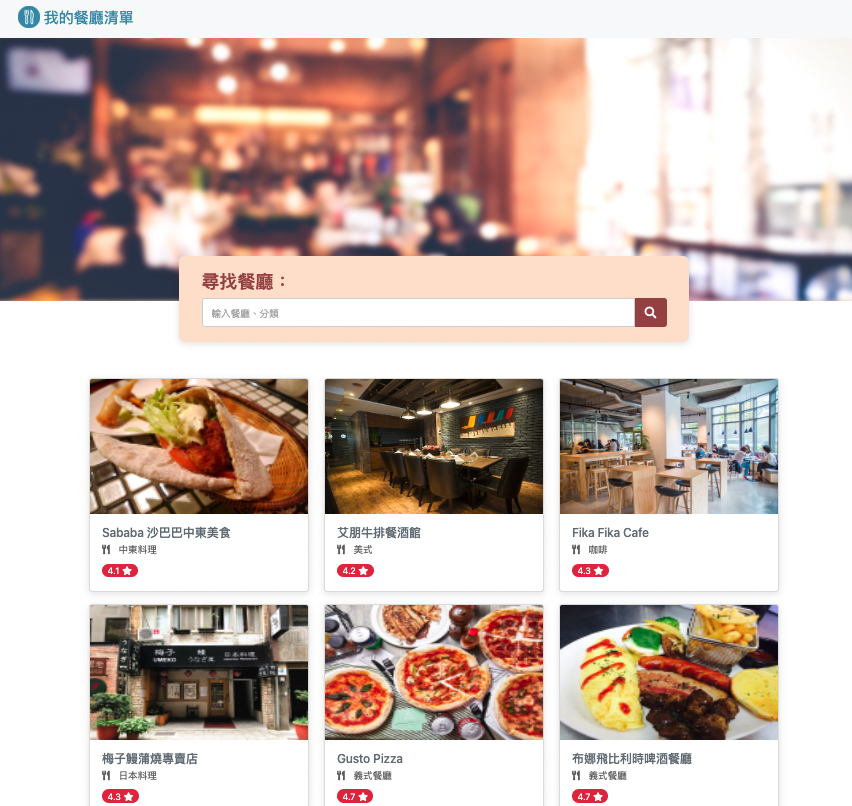
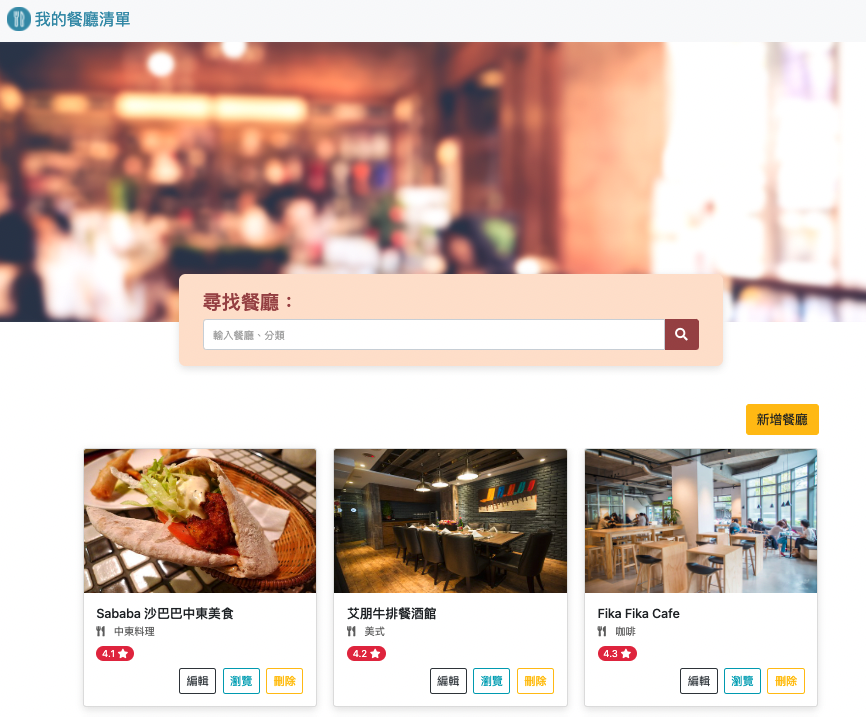
docs: add img, modify readme.md

diff --git a/README.md b/README.md
@@ -1,14 +1,10 @@
-# My Restaurant List
-![Home Page](https://github.com/Yunya-Hsu/S2-3_W1_A1_restaurant-list/blob/main/public/img/homePage.png)
----
-![Restaurant Page](https://github.com/Yunya-Hsu/S2-3_W1_A1_restaurant-list/blob/main/public/img/restaurantPage.png)
-
-
-
 ## Features
 - User is able to review all restaurants.
 - User can do search by entering keyword into search bar; restaurants will be shown if their "name" or "description" includes keyword.
-- By clicking restaurant, user will enter the dedicated page and be able to check restaurants' details including address/ phone/ description.
+- By clicking "瀏覽" button, user will enter the dedicated page and be able to check restaurants' details.
+- By clicking "編輯" button, user will enter the dedicated page and modify the restaurant's detail information.
+- By clicking "刪除" button, restaurant will be deleted.
+- By clicking "新增餐廳" button, user is able to add/ create a new restaurant. 
 
 
 
@@ -23,13 +19,25 @@ Make sure you already have `Node.js` and `npm` installed.
 ```
 npm install
 ```
-4. Start the server
+5. Connect MongoDB
+```
+export MONGODB_URI="your MongoDB URI, account, password"
+```
+6. Apply seed data
+```
+npm run seed
+```
+6. Start the server
 ```
 npm run star
 ```
-5. If you see  `Express is running on localhost:3000`  on your terminal, it means the server is running successfully and you can enter follwing url to check this project:
+7. If you see  `Express is running on localhost:3000`  on your terminal, it means the server is running successfully and you can enter following url to check this project:
 ```
 http://localhost:3000
+``` 
+8. Stop the server
+```
+control + c
 ```
 
 
@@ -40,3 +48,14 @@ http://localhost:3000
 - Express - Handlebars 3.0.0
 - Bootstrap 4.3.1
 - Font Awesome 5.8.1
+- mongoose 5.9.7
+
+
+# My Restaurant List
+![Home Page]()
+---
+![Review Page]()
+---
+![Edit Page]()
+---
+![Create Page]()
